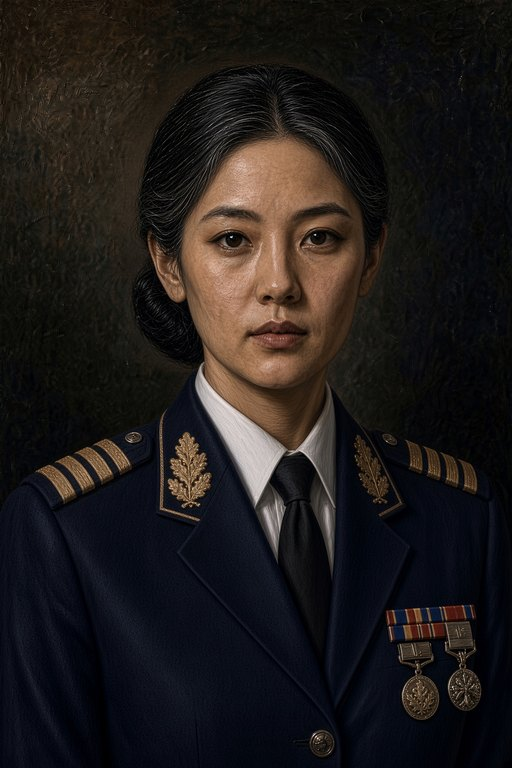
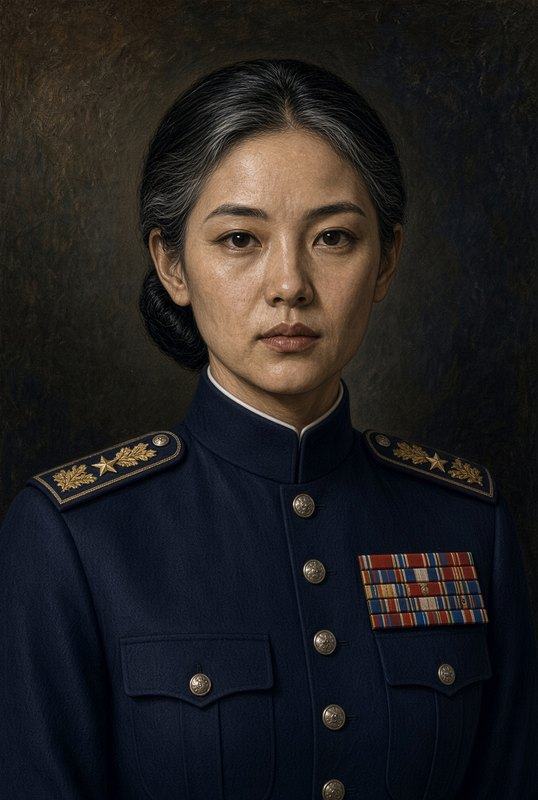
G02 Dienst Ränge + Schirm/Mütze

diff --git a/Division_Command_0.32c/web/js/ui/portraits.js b/Division_Command_0.32c/web/js/ui/portraits.js
@@ -274,7 +274,8 @@
     'f16-burgund-none': 'lt',
     'f16-sand-none': 'lt',
     'f01-dienst-schirm': 'lt',
-    'f01-dienst-mutze': 'lt'
+    'f01-dienst-mutze': 'lt',
+    'f02-dienst-mutze': 'lt'
   };
 
   function rankMeta(rank) {
